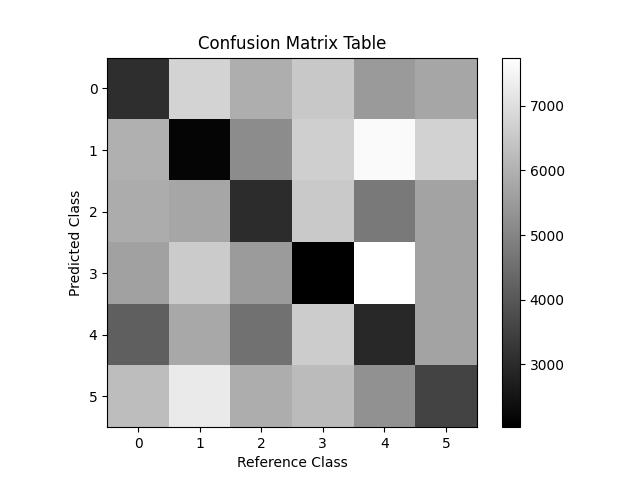
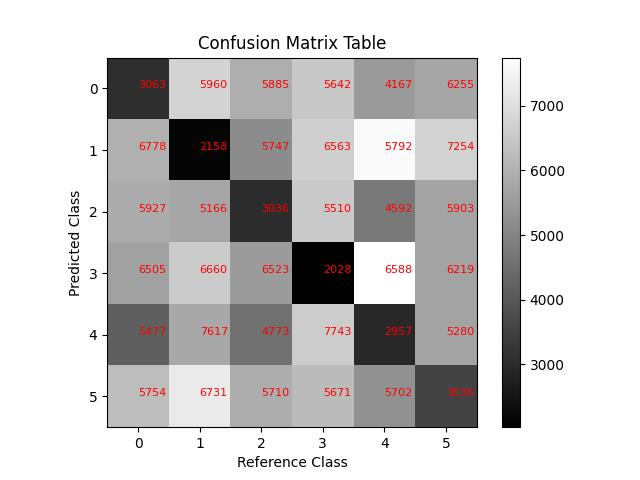
显示 score_matrix数据

diff --git a/assignment/[Asg-1][1155177751][Hong Shengzhe]/speech_recognition.py b/assignment/[Asg-1][1155177751][Hong Shengzhe]/speech_recognition.py
@@ -125,6 +125,9 @@ for i in range(6):
     score_matrix.append(curLevel)
 score_matrix = np.array(score_matrix)
 plt.imshow(score_matrix, cmap=plt.cm.gray)
+for i in range(6):
+    for j in range(6):
+        plt.text(i,j,int(score_matrix[i][j]),fontsize=8,color="r")
 plt.colorbar()
 plt.title("Confusion Matrix Table")
 plt.xlabel('Reference Class')
